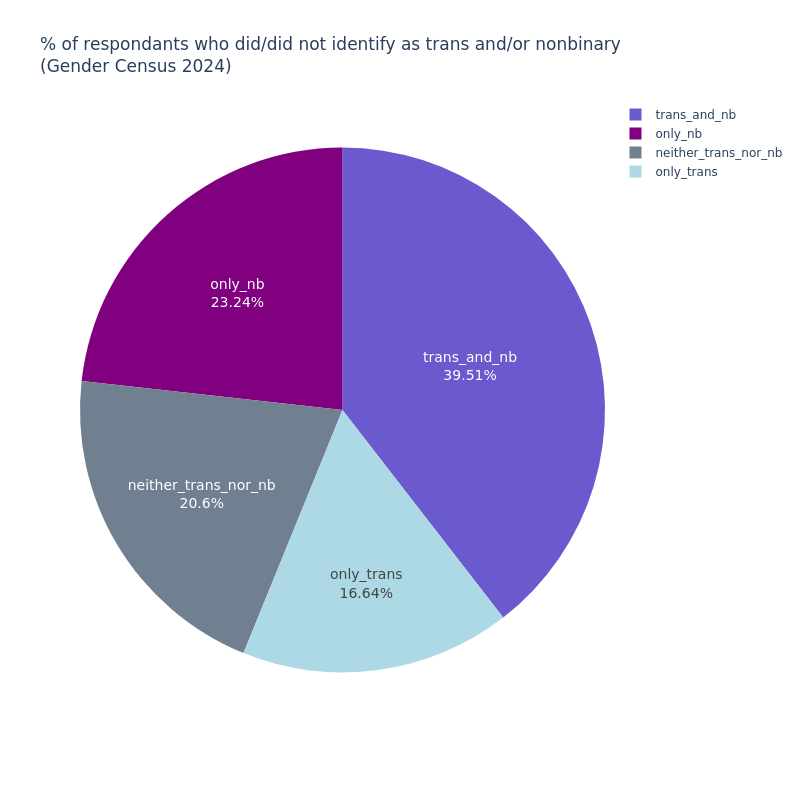
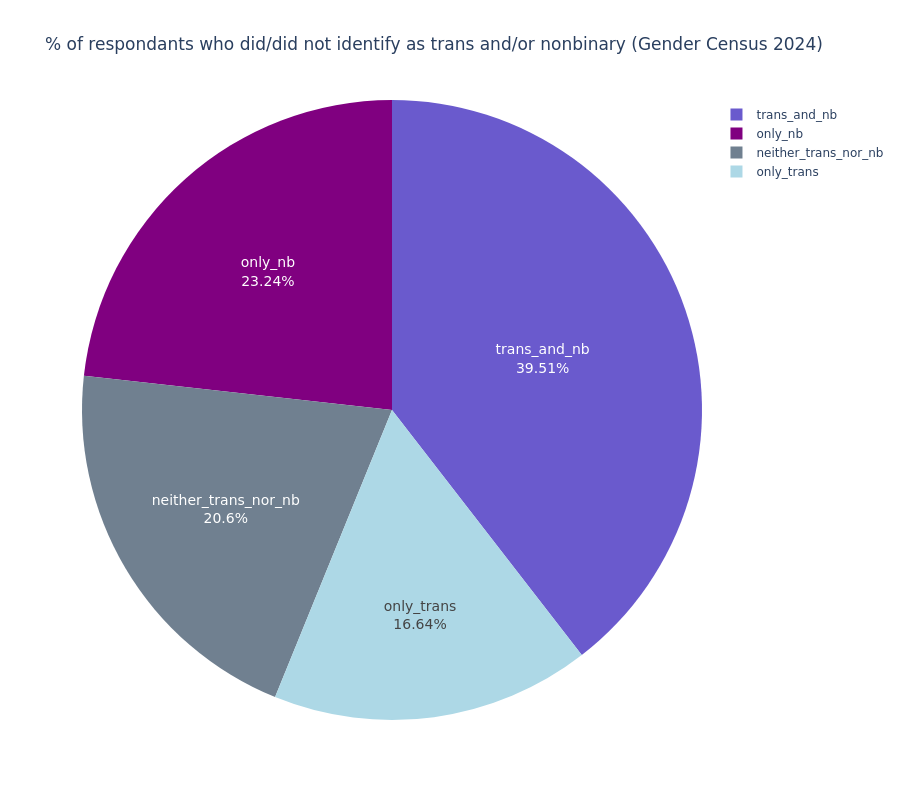
change ratio

diff --git a/visualisation/chart_import_data.py b/visualisation/chart_import_data.py
@@ -19,7 +19,7 @@ pie_titles = {
     "tickbox_trans_direction_labels":"% of trans respondants who did/did not specify their direction via tickboxes <br>",
     "tickbox_nb_no_nb":"% of respondants who did/did not tick nonbinary/enby ",
     "tickbox_nb_no_nb_umbrella":"% of respondants who did/did not tick nonbinary, enby, genderfluid, agender, <br>or bigender ",
-    "tickbox_trans_nb": "% of respondants who did/did not identify as trans and/or nonbinary <br>"
+    "tickbox_trans_nb": "% of respondants who did/did not identify as trans and/or nonbinary "
 }
 
 # get lists for count df based on data cases

diff --git a/visualisation/make_label_tickbox_charts.py b/visualisation/make_label_tickbox_charts.py
@@ -103,7 +103,7 @@ def make_label_tickbox_charts(input_df:pd.DataFrame):
     trans_nb_fig.write_image(
         f"{folder}trans_nb_intersection.png",
         height=800,
-        width=800,
+        width=900,
     )
 
 
